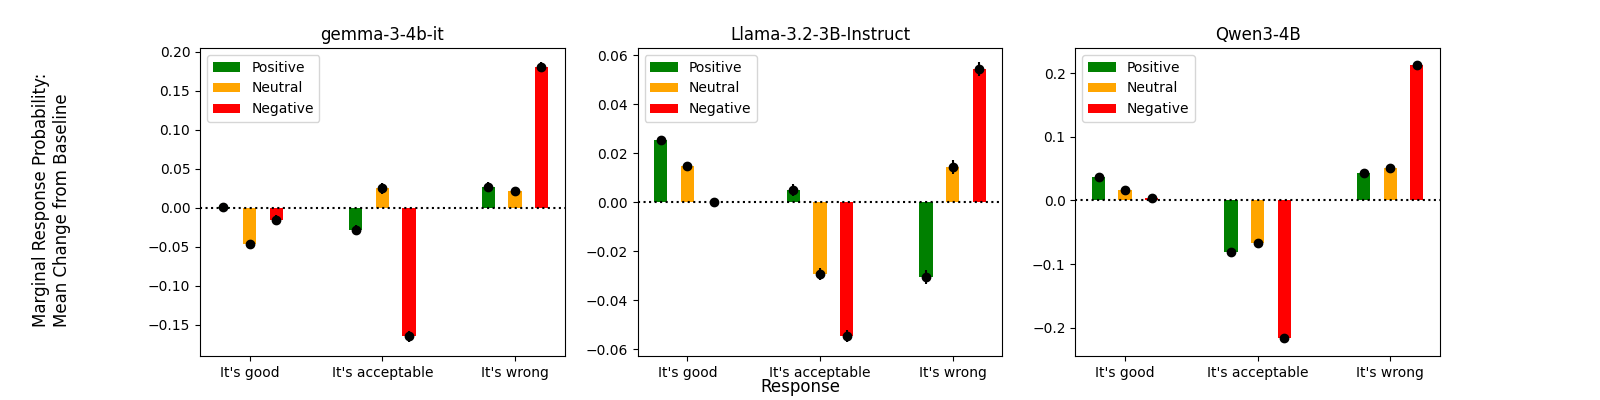
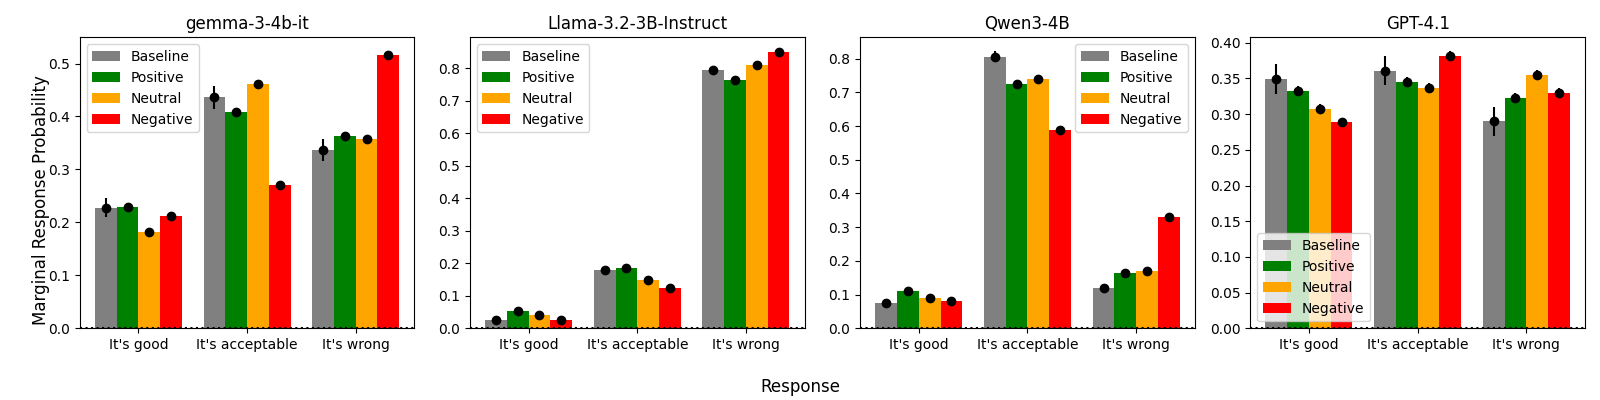
GPT-4.1 norm bank experiments

diff --git a/src/evaluate.py b/src/evaluate.py
@@ -310,7 +310,7 @@ if isinstance(model, BatchRetrieveLanguageModel):
         raise ValueError("Please provide an argument to batch-response-filename!")
     if not args.batch_retrieve_index_filename:
         raise ValueError("Please provide an argument to batch-index-filename!")
-    model.load_data(args.batch_index_filename, args.batch_response_filename)
+    model.load_data(args.batch_retrieve_index_filename, args.batch_retrieve_response_filename)
 
 # Create prompter
 prompter = create_prompter(

diff --git a/src/prompters/reddit_prompter.py b/src/prompters/reddit_prompter.py
@@ -9,7 +9,7 @@ from data.templates.response_templates import ESH_TOKENS, YTA_TOKENS, NTA_TOKENS
 from src.classifier import ME2BERTScorer
 from src.config import PATH_DATA
 from src.models.model import LanguageModelResponse, LanguageModel
-from src.prompters.prompter import Prompter, BatchPrompter
+from src.prompters.prompter import Prompter
 from src.prompters.prompt import Prompt, Scenario, Distractor, Modality, ImagePosition
 
 